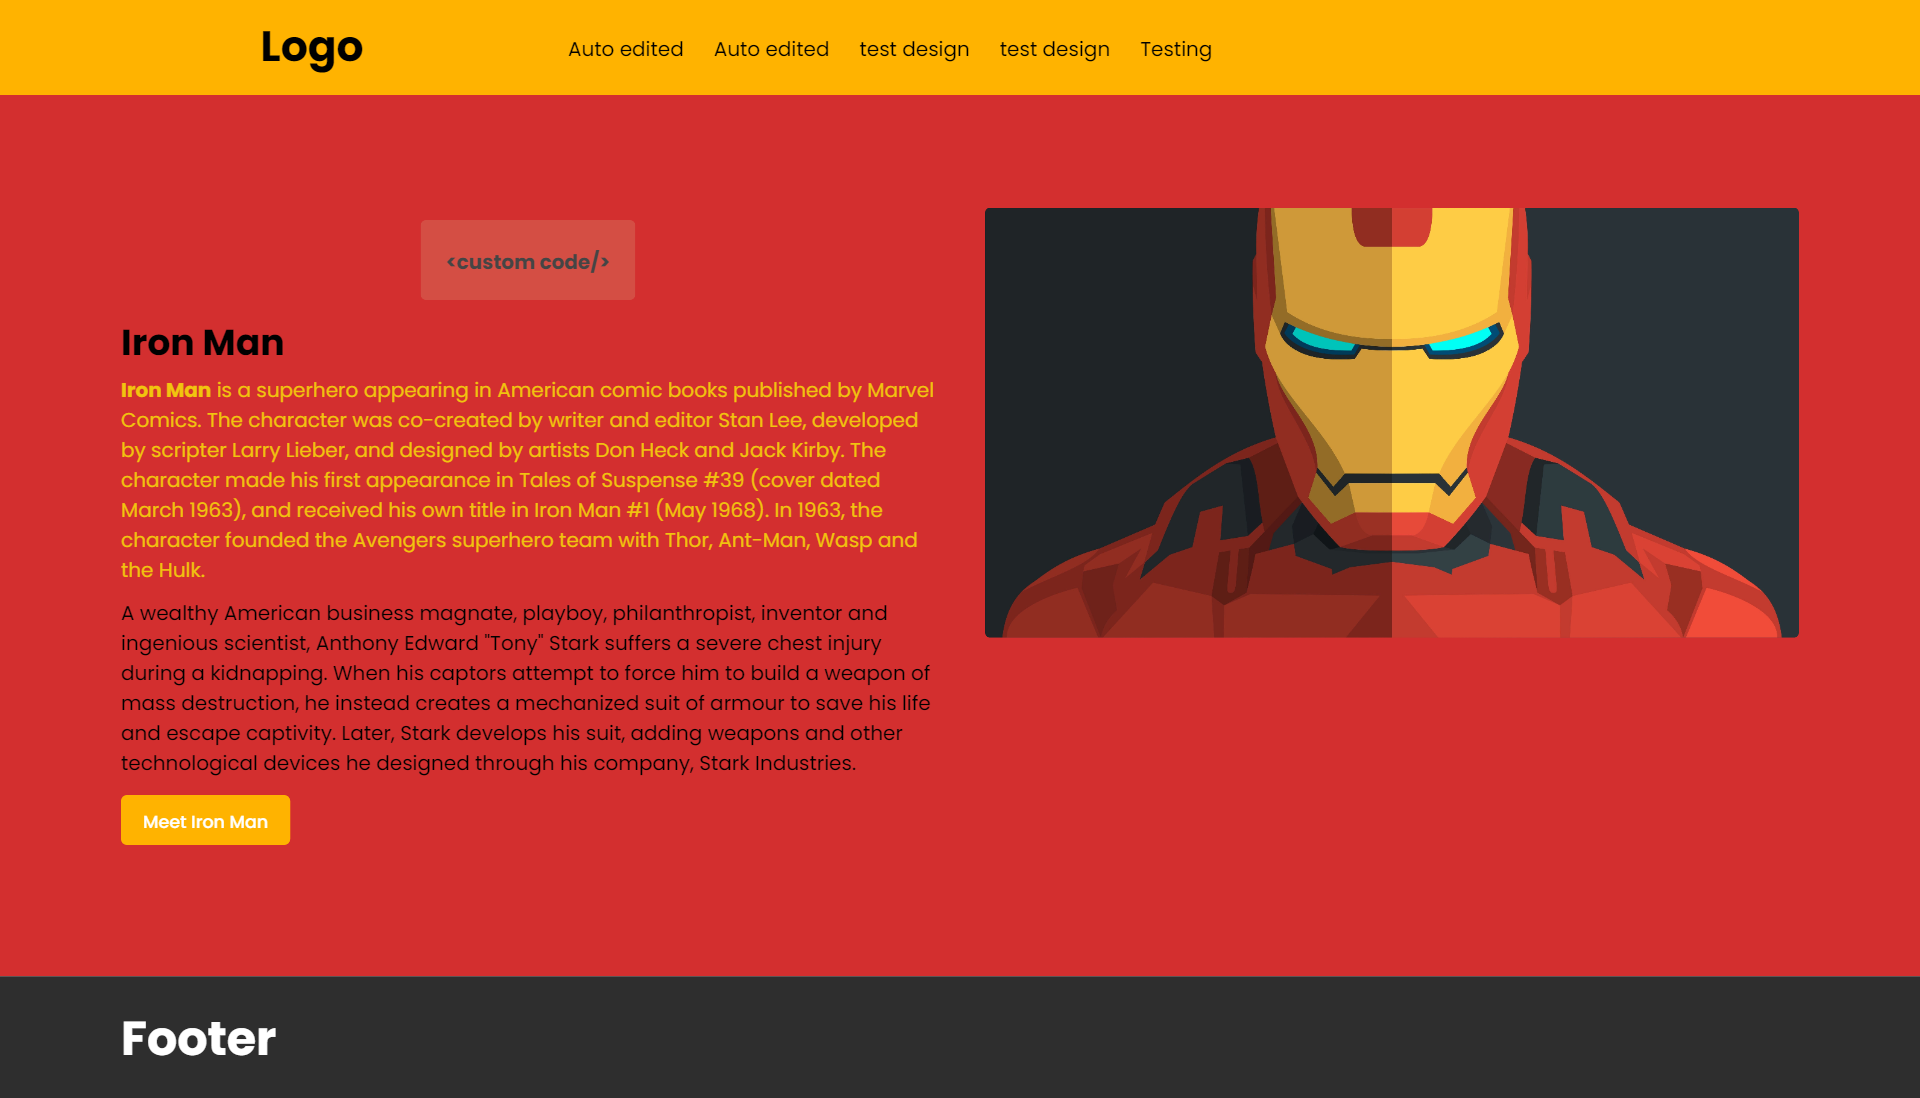
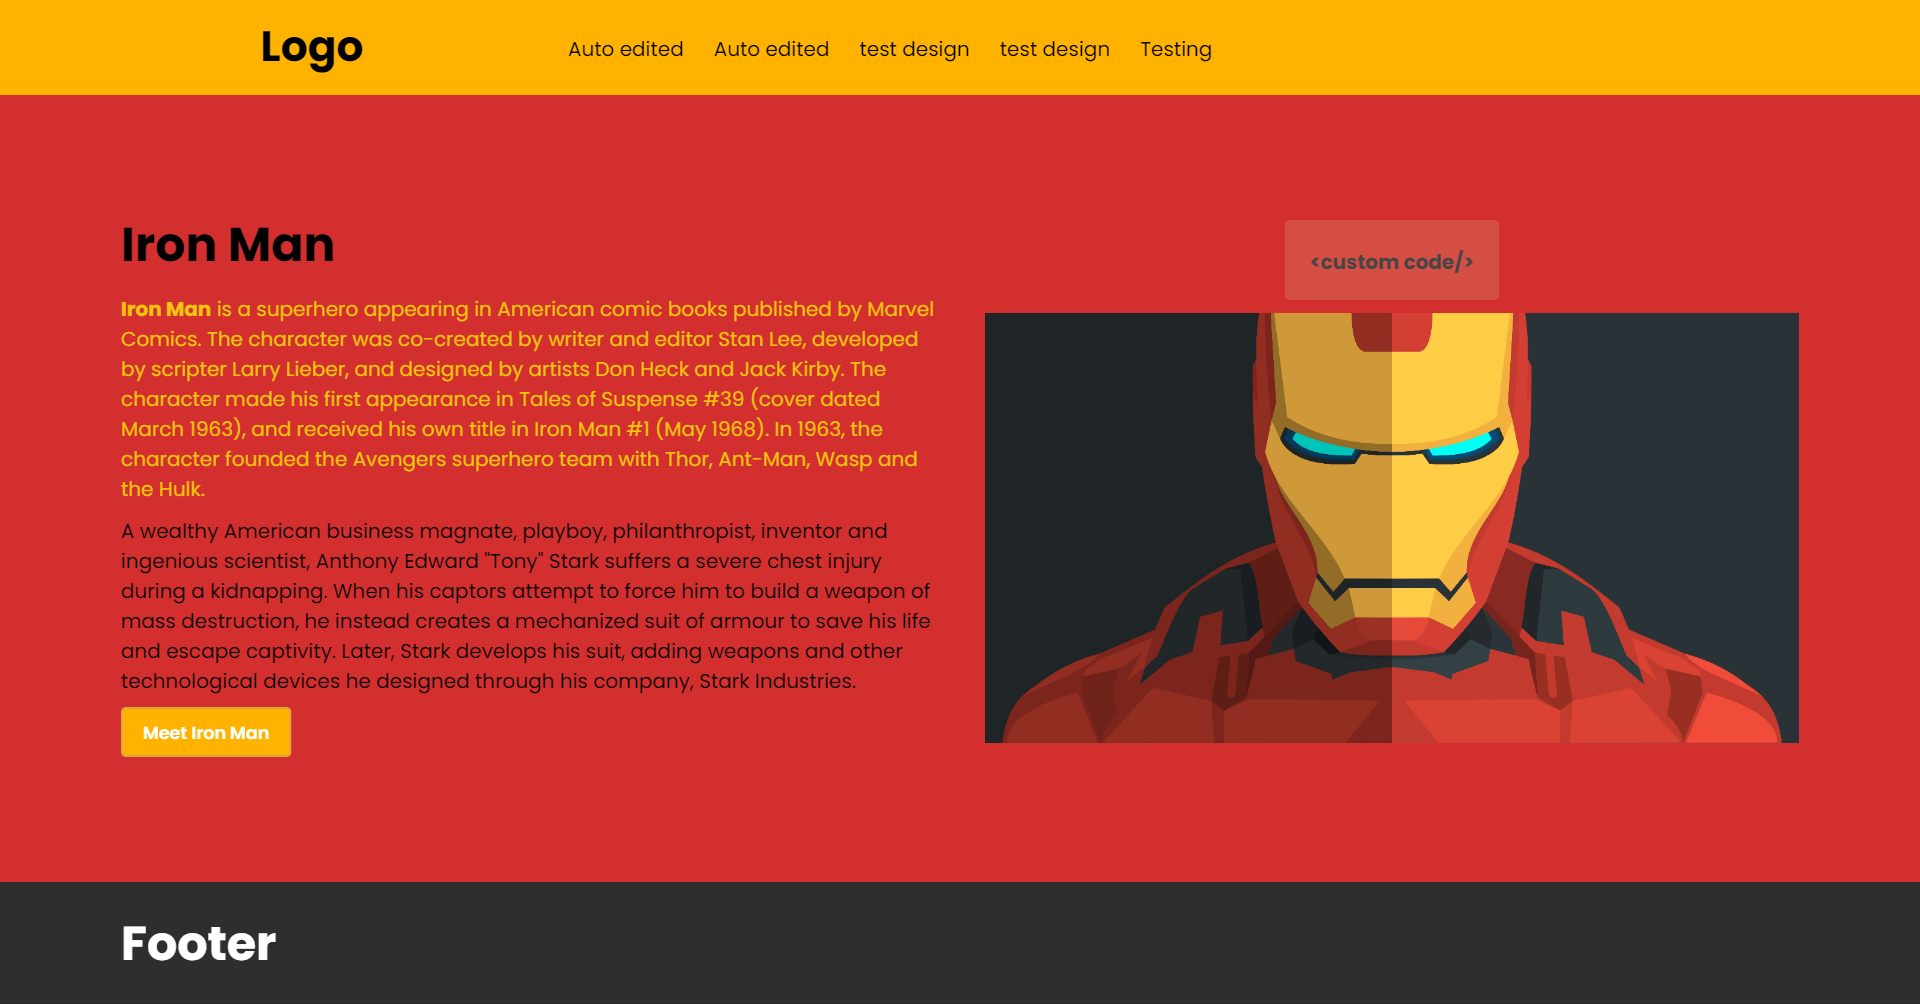
Block Redirection

diff --git a/src/app/builder-setting/builder-setting.component.html b/src/app/builder-setting/builder-setting.component.html
@@ -2033,23 +2033,74 @@
                                 <div class="kb-tab-head">Custom CSS</div>
                                 <div class="kb-tab-content kb-inp-left">
                                     <textarea placeholder="Write custom css here" [(ngModel)]="_general.page_code"
-                                        name="page-code"></textarea>
+                                        name="page-code" [style.height]="code_block_ht"></textarea>
                                 </div>
                             </div>
                         </ng-template>
                     </mat-tab>
+                    <mat-tab label="Redirection" *ngIf="_general.selectedBlock.type != 'main' && _general.respToggleDevice.name != 'hover' && searchingTab('Redirection')">
+                        <div *ngIf="searchingDeep('Redirection Link')" class="kb-inner-tab-component">
+                            <div class="kb-tab-head">Link</div>
+                            <div class="kb-tab-content kb-inp-left">
+                                <input type="text" [(ngModel)]="_style.block_link"
+                                    [style.textTransform]="'lowercase'">
+                            </div>
+                        </div>
+                        <div *ngIf="searchingDeep('Redirection Link Website Pages')" class="kb-inner-tab-component">
+                            <div class="kb-tab-head">Website Pages</div>
+                            <div class="kb-tab-content kb-inp-left">
+                                <mat-select [(ngModel)]="_style.block_link">
+                                    <mat-option *ngFor="let page of _general.existwebpages"
+                                        [value]="_general.subdomain+page.page_path"
+                                        [disabled]="page.publish_status == 0">
+                                        {{page.page_name | titlecase}}<small [attr.data]="'Draft'" class="infoTxt"
+                                            *ngIf="page.publish_status == 0"></small>
+                                    </mat-option>
+                                </mat-select>
+                            </div>
+                        </div>
+                        <div *ngIf="searchingDeep('Redirection Link Funnel Steps')" class="kb-inner-tab-component">
+                            <div class="kb-tab-head">Funnel Steps</div>
+                            <div class="kb-tab-content kb-inp-left">
+                                <mat-select [(ngModel)]="_style.block_link">
+                                    <mat-optgroup *ngFor="let funnel of _general.funnels"
+                                        [label]="funnel.name | titlecase">
+                                        <mat-option *ngFor="let step of funnel.steps"
+                                            [value]="_general.subdomain+step.page_path"
+                                            [disabled]="step.archived == 1">
+                                            {{step.page_name | titlecase}}<small [attr.data]="step.funneltype"
+                                                class="infoTxt"></small>
+                                        </mat-option>
+                                    </mat-optgroup>
+                                </mat-select>
+                            </div>
+                        </div>
+                        <div *ngIf="searchingDeep('Redirection Link Target')" class="kb-inner-tab-component">
+                            <div class="kb-tab-head">Target</div>
+                            <div class="kb-tab-content">
+                                <mat-select [(ngModel)]="_style.block_target"
+                                    [compareWith]="_general.compareOptValue">
+                                    <mat-option *ngFor="let btt of _style.button_target_types"
+                                        [value]="btt">{{btt.name |
+                                        titlecase}}</mat-option>
+                                </mat-select>
+                            </div>
+                        </div>
+                    </mat-tab>
                 </mat-tab-group>
                 <!-- code -->
                 <ng-template #code>
-                    <div class="kb-tabs-component kb-tab-comp-pad" *ngIf="_general.selectedBlock.content.name == 'code'">
-                        <div class="kb-inner-tab-component">
-                            <div class="kb-tab-head">Paste your code here</div>
-                            <div class="kb-tab-content">
-                                <textarea placeholder="<code/>" [(ngModel)]="_style.code_html"
-                                name="element-code" [style.height]="'200px'"></textarea>
+                    <mat-tab-group class="kb-tabs-component" (selectedTabChange)="_general.selectedTabChange($event)">
+                        <mat-tab label="Code" *ngIf="searchingTab('Code')">
+                            <div *ngIf="searchingDeep('Custom Code')" class="kb-inner-tab-component">
+                                <div class="kb-tab-head">Paste your code here</div>
+                                <div class="kb-tab-content kb-inp-left">
+                                    <textarea placeholder="<code/>" [(ngModel)]="_style.code_html"
+                                        name="custom-code" [style.height]="code_block_ht"></textarea>
+                                </div>
                             </div>
-                        </div>
-                    </div>
+                        </mat-tab>
+                    </mat-tab-group>
                 </ng-template>
                 <!-- code -->
                 <div class="kb-selection-btn-group">

diff --git a/src/app/builder/builder.component.html b/src/app/builder/builder.component.html
@@ -67,6 +67,9 @@
                     <!-- sections start -->
                     <div cdkDrag *ngFor="let section of _section.sections, index as si"
                         [attr.data-name]="section.name ? section.name : ''"
+                        [attr.data-link]="section.redirection ? section.redirection.link : ''"
+                        [attr.data-target]="section.redirection ? section.redirection.target : ''"
+                        [class.kb-block-redirection]="section.redirection"
                         (mouseenter)="section.setting = true; _row.selectedSectionRows = section.rowArr"
                         (mouseleave)="section.setting = false" [ngClass]="_style.getHideCls(section.hide)"
                         [class.kb-block-none]="isBlockActive(section) ? _style.getDisplay(_style.hide) : _style.getDisplay(section.hide)"
@@ -109,6 +112,9 @@
                             <!-- rows start -->
                             <div cdkDrag *ngFor="let row of section.rowArr, index as ri"
                                 [attr.data-name]="row.name ? row.name : ''"
+                                [attr.data-link]="row.redirection ? row.redirection.link : ''"
+                                [attr.data-target]="row.redirection ? row.redirection.target : ''"
+                                [class.kb-block-redirection]="row.redirection"
                                 (mouseenter)="row.setting = true; _row.selectedRow = row;"
                                 (mouseleave)="row.setting = false" [ngClass]="_style.getHideCls(row.hide)"
                                 [class.kb-block-none]="isBlockActive(row) ? _style.getDisplay(_style.hide) : _style.getDisplay(row.hide)"
@@ -146,6 +152,9 @@
                                     <!-- columns start -->
                                     <div *ngFor="let column of row.columnArr, index as ci"
                                         [attr.data-name]="column.name ? column.name : ''"
+                                        [attr.data-link]="column.redirection ? column.redirection.link : ''"
+                                        [attr.data-target]="column.redirection ? column.redirection.target : ''"
+                                        [class.kb-block-redirection]="column.redirection"
                                         (mouseenter)="_element.selectedElements = column.elementArr"
                                         [ngStyle]="isBlockActive(column) ? _style.currentStyling() : _style.getBlockStyle(column.style)"
                                         [ngClass]="_style.getHideCls(column.hide)"
@@ -159,6 +168,9 @@
                                             <div cdkDrag *ngFor="let element of column.elementArr, index as ei"
                                                 [ngSwitch]="element.content.name"
                                                 [attr.data-name]="element.name ? element.name : ''"
+                                                [attr.data-link]="element.redirection ? element.redirection.link : ''"
+                                                [attr.data-target]="element.redirection ? element.redirection.target : ''"
+                                                [class.kb-block-redirection]="element.redirection"
                                                 (dblclick)="elementDblClk(element)"
                                                 (mouseenter)="element.setting = true"
                                                 (mouseleave)="element.setting = element?.moresetting" 

diff --git a/src/app/_services/_builder/style.service.ts b/src/app/_services/_builder/style.service.ts
@@ -75,13 +75,15 @@ export class StyleService {
   button_target_types = [
     { name: 'same tab', value: '_self' },
     { name: 'new tab', value: '_blank' },
-    { name: 'linked new tab', value: 'framename' },
+    // { name: 'linked new tab', value: 'framename' },
   ]
   button_subfont_size = {value: '80'};
   button_subfont_sizeRange: any = { value: 80, max: 200, type: '%' };
   button_product = '';
   // button
   // general
+  block_link:string = '';
+  block_target:any = { name: 'same tab', value: '_self' };
   width = { value: '100%' };
   widthRange: any = { value: 100, max: 100, type: '%' };
   height = { value: 'auto' };
@@ -940,6 +942,10 @@ export class StyleService {
       }
       else this._general.selectedBlock.style.desktop = this.currentStyling();
     }
+    if(this._general.selectedBlock.redirection) {
+      this._general.selectedBlock.redirection.link = this.block_link;
+      this._general.selectedBlock.redirection.target = this.block_target.value;
+    }
     if(this._general.selectedBlock.type != "column") this._general.selectedBlock = '';
   }
 
@@ -1294,6 +1300,8 @@ export class StyleService {
   }
 
   blockSetting(block: any) {
+      this._general.getAllWebPages();
+      this._general.getAllFunnels();
       var obj:any = new Object();
       if(block.type == 'element') {
         if(this.setItemStyle) {
@@ -1594,6 +1602,14 @@ export class StyleService {
         this.margin.bottom = '0px';
         if(block.content && block.content?.name == 'code') this.code_html = block.content.html;
       }
+      if(block.redirection) {
+        this.block_link = block.redirection.link;
+        this.block_target = this.button_target_types.filter((item:any)=>{ if(block.redirection.target == item.value) return item; })[0];
+      }
+      else {
+        this.block_link = '';
+        this.block_target = { name: 'same tab', value: '_self'};
+      }
   }
 
   elementSetting(element: any) {
@@ -1667,8 +1683,6 @@ export class StyleService {
       this.video_controls = element.controls;
     }
     if (element.name == 'button' && !element.form) {
-      this._general.getAllWebPages();
-      this._general.getAllFunnels();
       if(element.btntype != 'regular') {
         this.button_product = element.productid;
         this._general.getAllProducts();

diff --git a/src/app/_services/_builder/row.service.ts b/src/app/_services/_builder/row.service.ts
@@ -14,10 +14,10 @@ export class RowService {
 
   distroyDialogue = new Subject<any>();
   selectedRow:any = '';
-  rowObj:any = {id: '', type: 'row', columnArr: [], setting: false, rowSize: '', style: {desktop:'', tablet_h:'', tablet_v:'', mobile:'', hover: ''}, columnGap: {desktop:0, tablet_h:'auto', tablet_v:'auto', mobile:'auto'}, columnRev: {desktop:false, tablet_h:false, tablet_v:false, mobile:false}, hide: {desktop:false, tablet_h:false, tablet_v:false, mobile:false}};
+  rowObj:any = {id: '', type: 'row', columnArr: [], setting: false, rowSize: '', redirection: {link: '', target: '_self' }, style: {desktop:'', tablet_h:'', tablet_v:'', mobile:'', hover: ''}, columnGap: {desktop:0, tablet_h:'auto', tablet_v:'auto', mobile:'auto'}, columnRev: {desktop:false, tablet_h:false, tablet_v:false, mobile:false}, hide: {desktop:false, tablet_h:false, tablet_v:false, mobile:false}};
   selectedSectionRows = [];
   row_index:number = 0;
-  columnObj:any = {id: '', type: 'column', elementArr: [], name: '', chngName: false, style: {desktop:'', tablet_h:'', tablet_v:'', mobile:'', hover: ''}, hide: {desktop:false, tablet_h:false, tablet_v:false, mobile:false}};
+  columnObj:any = {id: '', type: 'column', elementArr: [], name: '', chngName: false, redirection: {link: '', target: '_self' }, style: {desktop:'', tablet_h:'', tablet_v:'', mobile:'', hover: ''}, hide: {desktop:false, tablet_h:false, tablet_v:false, mobile:false}};
   rowTypes:Array<any> = [{cls: '1', appendCls: 'full', nofcolumn: 1}, {cls: '1-2', appendCls: 'half', nofcolumn: 2}, {cls: '1-3', appendCls: 'three', nofcolumn: 3}, 
   {cls: '1-4', appendCls: 'four', nofcolumn: 4}, {cls: '1-5', appendCls: 'five', nofcolumn: 5}, {cls: '1-6', appendCls: 'six', nofcolumn: 6}, 
   {cls: '40-60', appendCls: 'f-s', nofcolumn: 2}, {cls: '60-40', appendCls: 's-f', nofcolumn: 2}, {cls: '25-75', appendCls: 'tf-sf', nofcolumn: 2},

diff --git a/src/app/_services/_builder/general.service.ts b/src/app/_services/_builder/general.service.ts
@@ -79,8 +79,8 @@ export class GeneralService {
     ],
     images_upload_base_path: '/some/basepath',
     images_upload_credentials: true,
-  images_upload_url: './api/uploadfile',
-  images_upload_handler: function (blobInfo:any, success:any, failure:any) {
+    images_upload_url: './api/uploadfile',
+    images_upload_handler: function (blobInfo:any, success:any, failure:any) {
     setTimeout(function () {
       success('http://moxiecode.cachefly.net/tinymce/v9/images/logo.png');
     }, 2000);
@@ -120,7 +120,7 @@ export class GeneralService {
   menu_target_types = [
     { name: 'same tab', value: '_self' },
     { name: 'new tab', value: '_blank' },
-    { name: 'linked new tab', value: 'framename' },
+    // { name: 'linked new tab', value: 'framename' },
   ];
   templatesUpdated = new BehaviorSubject(false);
   filterOrder:any = [{icon: 'ascending', name:'Ascending By Name', value: 'asc', type: 'name'}, {icon: 'ascending', name:'Ascending By Date', value: 'asc', type: 'id'}, {icon: 'descending', name:'Descending By Name', value: 'desc', type: 'name'}, {icon: 'descending', name:'Descending By Date', value: 'desc', type: 'id'}];

diff --git a/src/assets/style/builder.css b/src/assets/style/builder.css
@@ -109,7 +109,12 @@ div#page-container {
     padding: 0px 20px;
 }
 
-.kb-drag-container, .kb-code-block {
+.kb-drag-container {
+    display: flex;
+    flex-direction: column;
+    margin: 0;
+    padding: 0;
+    height: auto;
     width: 100%;
 }
 
@@ -205,7 +210,7 @@ div.kb-block-container {
     background-size: cover;
     background-repeat: no-repeat;
     background-position: center center;
-    max-width: 100%;
+    width: 100%;
     display: flex;
     flex-wrap: wrap;
 }
@@ -233,7 +238,7 @@ div.kb-element-content iframe, div.kb-element-content video {
     max-height: 100%;
 }
 
-div.kb-row div.kb-element {
+div.kb-row div.kb-element, .kb-code-block {
     width: 100%;
 }
 

diff --git a/src/app/_services/_builder/section.service.ts b/src/app/_services/_builder/section.service.ts
@@ -27,7 +27,7 @@ export class SectionService {
   sectionTypes:any = [];
 
   sections:any = [];
-  sectionObj:any = {id: '', type: 'section', rowArr: [], setting:false, style: {desktop:'', tablet_h:'', tablet_v:'', mobile:'', hover: ''}, hide: {desktop:false, tablet_h:false, tablet_v:false, mobile:false}};
+  sectionObj:any = {id: '', type: 'section', rowArr: [], setting:false, redirection: {link: '', target: '_self' }, style: {desktop:'', tablet_h:'', tablet_v:'', mobile:'', hover: ''}, hide: {desktop:false, tablet_h:false, tablet_v:false, mobile:false}};
   selectedSectionRows = [];
 
   pageSession:any = {undo: 0, redo: 0}

diff --git a/src/app/_services/_builder/element.service.ts b/src/app/_services/_builder/element.service.ts
@@ -16,6 +16,7 @@ export class ElementService {
   distroyDialogue = new Subject<any>();
   elementObj: any = {id: '', name: '',  type: 'element', content: {}, setting: false, 
                     item_alignment: {desktop: '', tablet_h: 'auto', tablet_v: 'auto', mobile: 'auto'}, 
+                    redirection: {link: '', target: '_self' },
                     style: {desktop: '', tablet_h: '', tablet_v: '', mobile: '', hover: ''}, 
                     hide: {desktop: false, tablet_h: false, tablet_v: false, mobile: false}};
   element_index = 0;

diff --git a/src/app/builder/builder.component.css b/src/app/builder/builder.component.css
@@ -358,11 +358,11 @@ div.kb-align-btn-group .kb-active-brd {
 }
 
 .kb-drag-container {
-    display: block;
+    display: flex;
     flex-direction: column;
     margin: 0;
     padding: 0;
-    height: 100%;
+    height: auto;
     width: 100%;
     min-height: 40px;
 }
@@ -587,7 +587,7 @@ div.kb-block-container {
     background-size: cover;
     background-repeat: no-repeat;
     background-position: center center;
-    max-width: 100%;
+    width: 100%;
     min-height: auto;
     display: flex;
     flex-wrap: wrap;

diff --git a/src/assets/script/tracking.js b/src/assets/script/tracking.js
@@ -42,4 +42,14 @@ window.onload = function(a){
         })
     });
   // responsive menu
+    // block redirection
+    document.querySelectorAll('.kb-block-redirection').forEach(block=>{
+        block.addEventListener('click',()=>{
+            console.log(block);
+            var link = block.getAttribute('data-link');
+            var target = block.getAttribute('data-target');
+            if(link) window.open(link, target);
+        })
+    })
+    // block redirection
 }

diff --git a/src/app/builder-setting/builder-setting.component.ts b/src/app/builder-setting/builder-setting.component.ts
@@ -29,6 +29,7 @@ export class BuilderSettingComponent implements AfterViewInit, OnDestroy {
   }
   searchType:string = '';
   waitTill:boolean = true;
+  code_block_ht:string = '200px';
 
   @Output('openImageDialog') openImageDialog: EventEmitter<any> = new EventEmitter();
   @Input()

diff --git a/src/app/builder-setting/builder-setting.component.css b/src/app/builder-setting/builder-setting.component.css
@@ -194,10 +194,6 @@ span.kb-trans:after {
     top: 10px;
 }
 
-.kb-tab-comp-pad {
-    padding: 6px 12px;
-}
-
 i.kb-danger {
     margin-left: 5px;
   }
